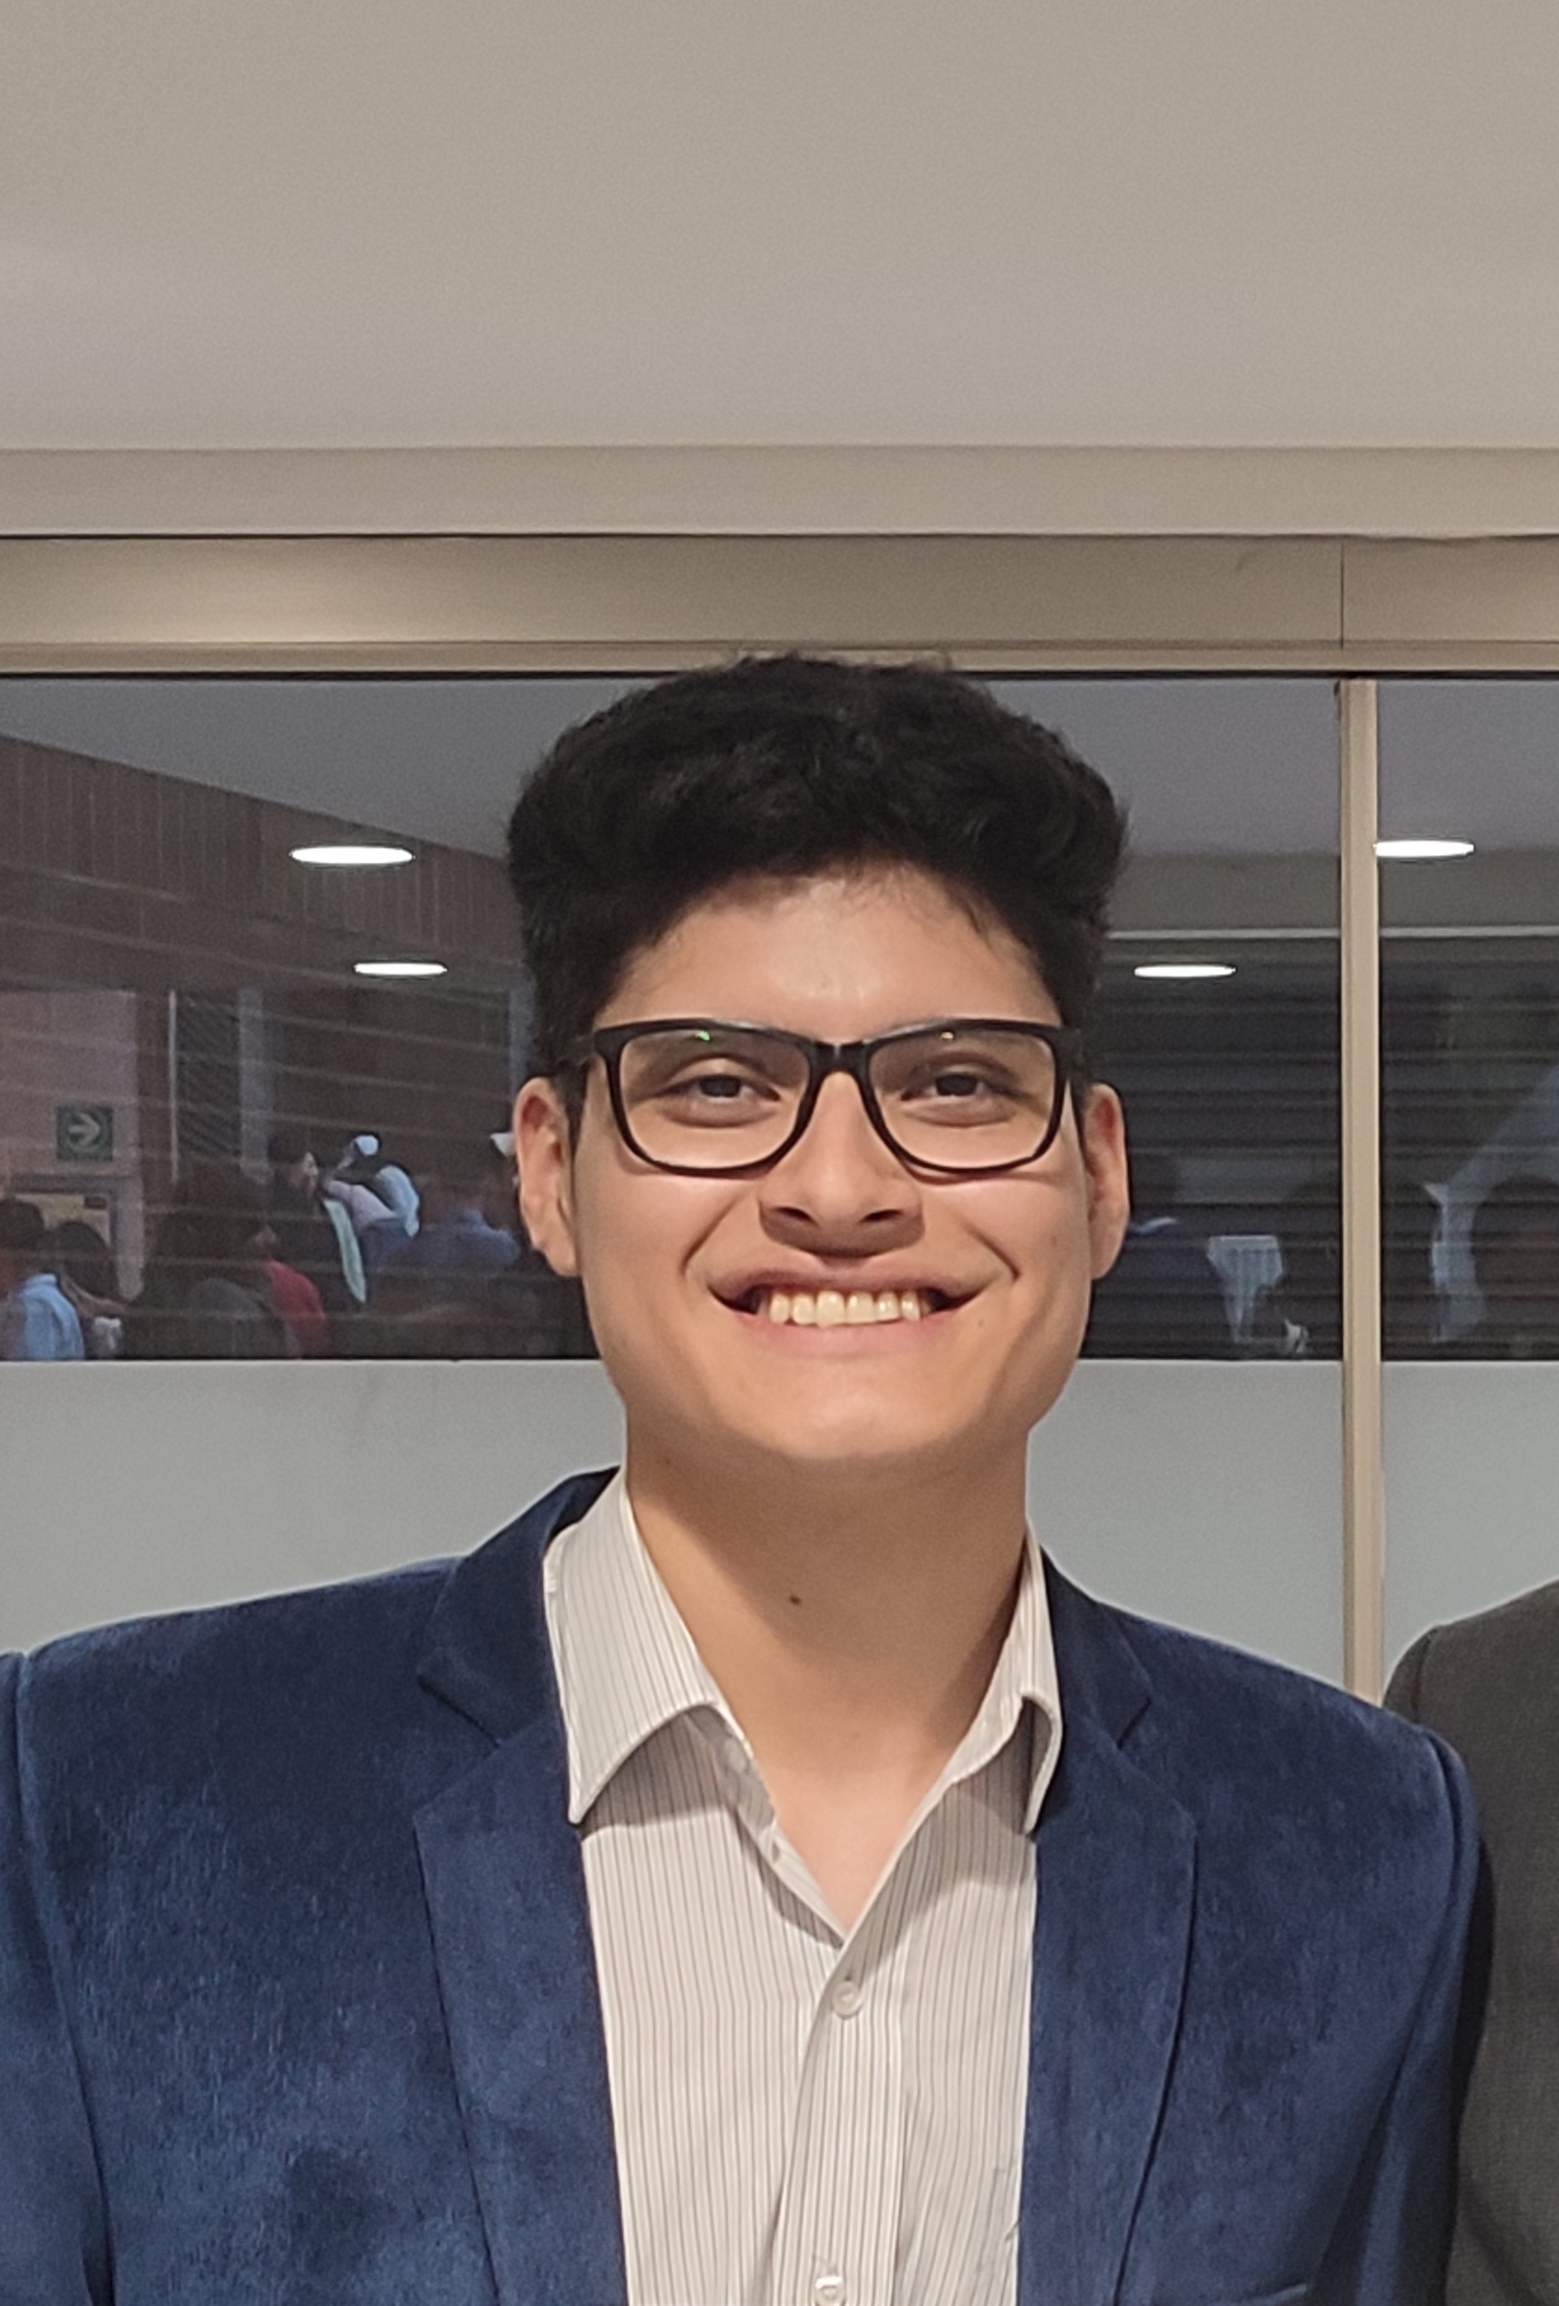
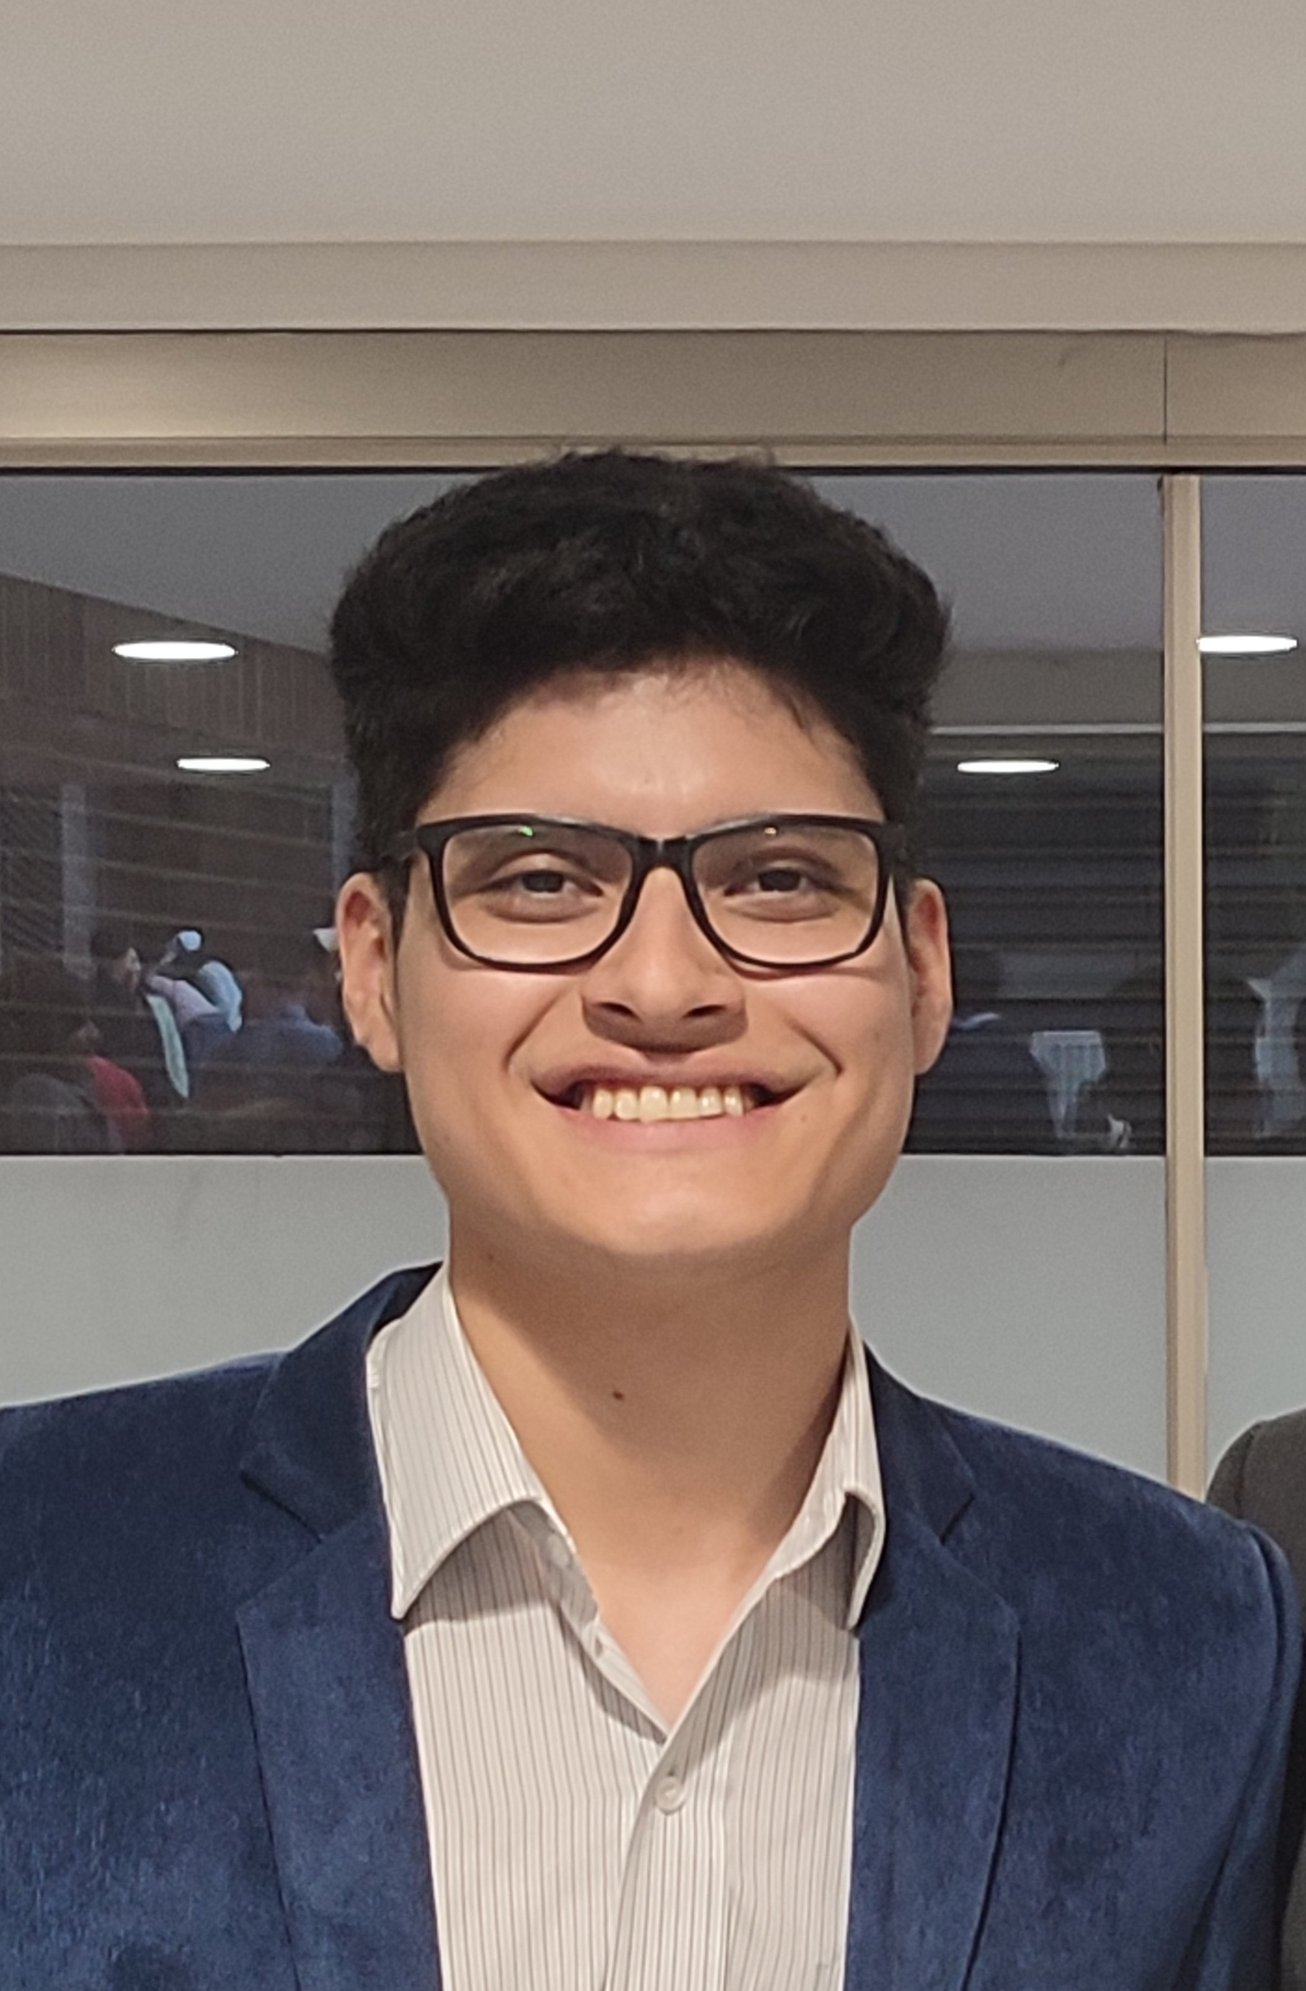
Update: Changes in index.html and perfil.jpg

diff --git a/index.html b/index.html
@@ -54,7 +54,7 @@
                 </div>
             </div>
             <div class="imagen-inicio">
-                <img src="images/perfil.png" alt="Foto de perfil">
+                <img src="images/perfil.jpgact" alt="Foto de perfil">
             </div>
         </div>
     </section>
